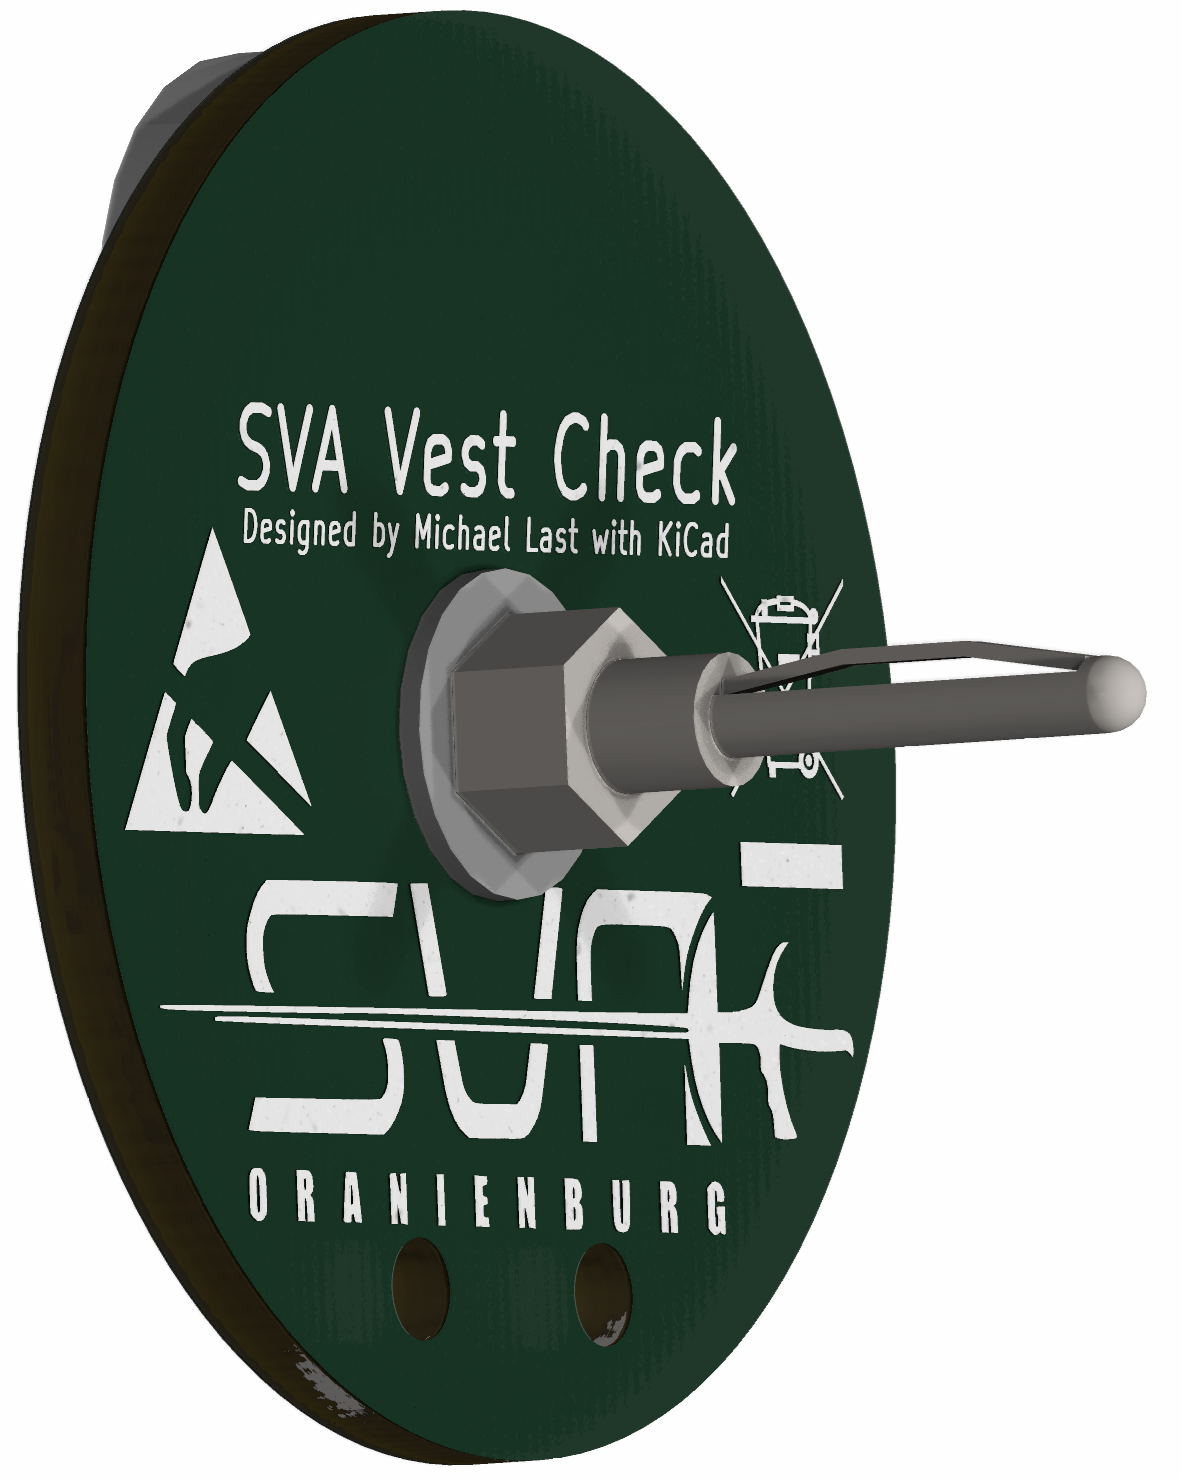
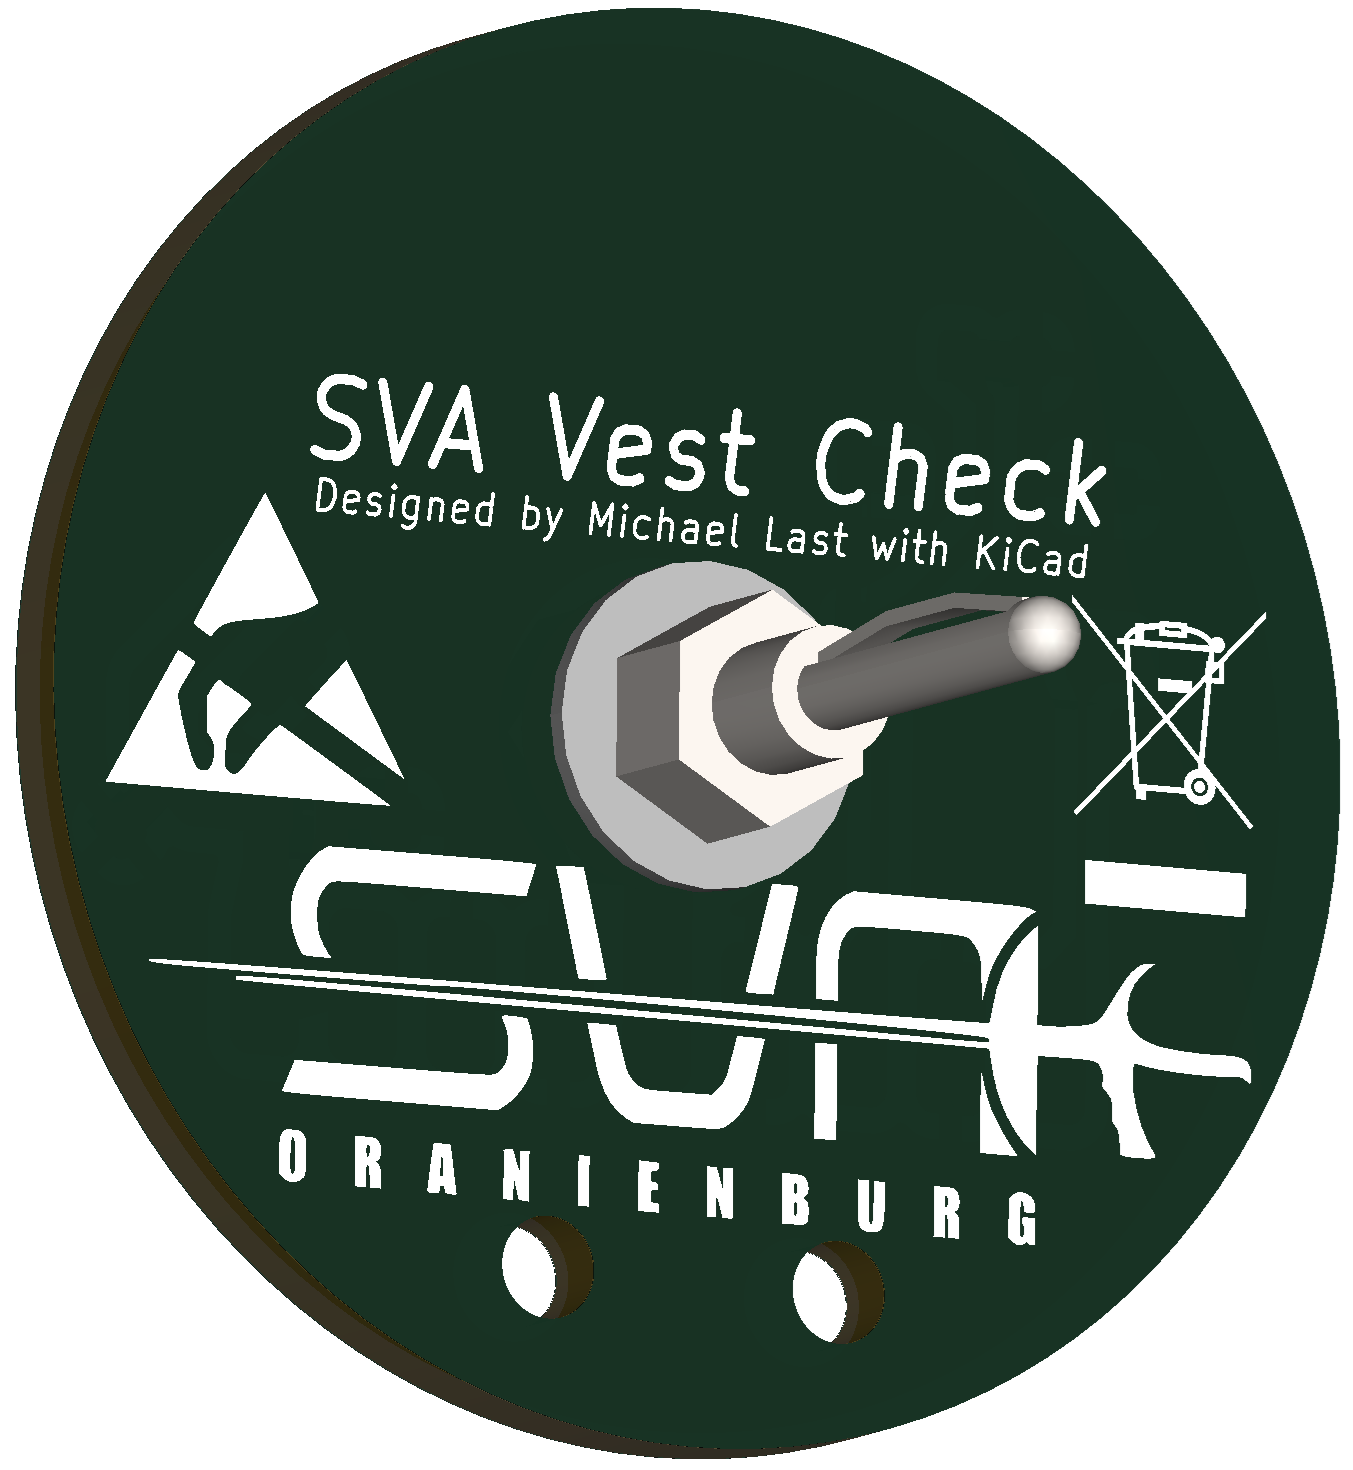
Refresh Rev4 and vest probe adapter renders

diff --git a/hardware/pcb/rev4/README.md b/hardware/pcb/rev4/README.md
@@ -2,13 +2,13 @@
 
 | Ansicht | Datei |
 | --- | --- |
-| Bestückungsseite | [pcb-rev4-bottom.png](./pcb-rev4-bottom.png) |
-| Display-/Frontansicht | [pcb-rev4-display.png](./pcb-rev4-display.png) |
+| Oberseite / Display-Frontansicht | [pcb-rev4-bottom.png](./pcb-rev4-bottom.png) |
+| Unterseite / Bestückungsseite | [pcb-rev4-display.png](./pcb-rev4-display.png) |
 
 Die Renderings zeigen Revision 4 zur visuellen Identifikation. Sie enthalten keine editierbaren PCB-, Schaltplan- oder Fertigungsdaten.
 
 Das vollständige 3D-Modell für Gehäuse-CAD ist unter [sva-fencing-tester-rev4.step](../../models/sva-fencing-tester-rev4.step) verfügbar.
 
-![Bestückungsseite Rev 4](./pcb-rev4-bottom.png)
+![Oberseite und Display-Frontansicht Rev 4](./pcb-rev4-bottom.png)
 
-![Display-/Frontansicht Rev 4](./pcb-rev4-display.png)
+![Unterseite und Bestückungsseite Rev 4](./pcb-rev4-display.png)
